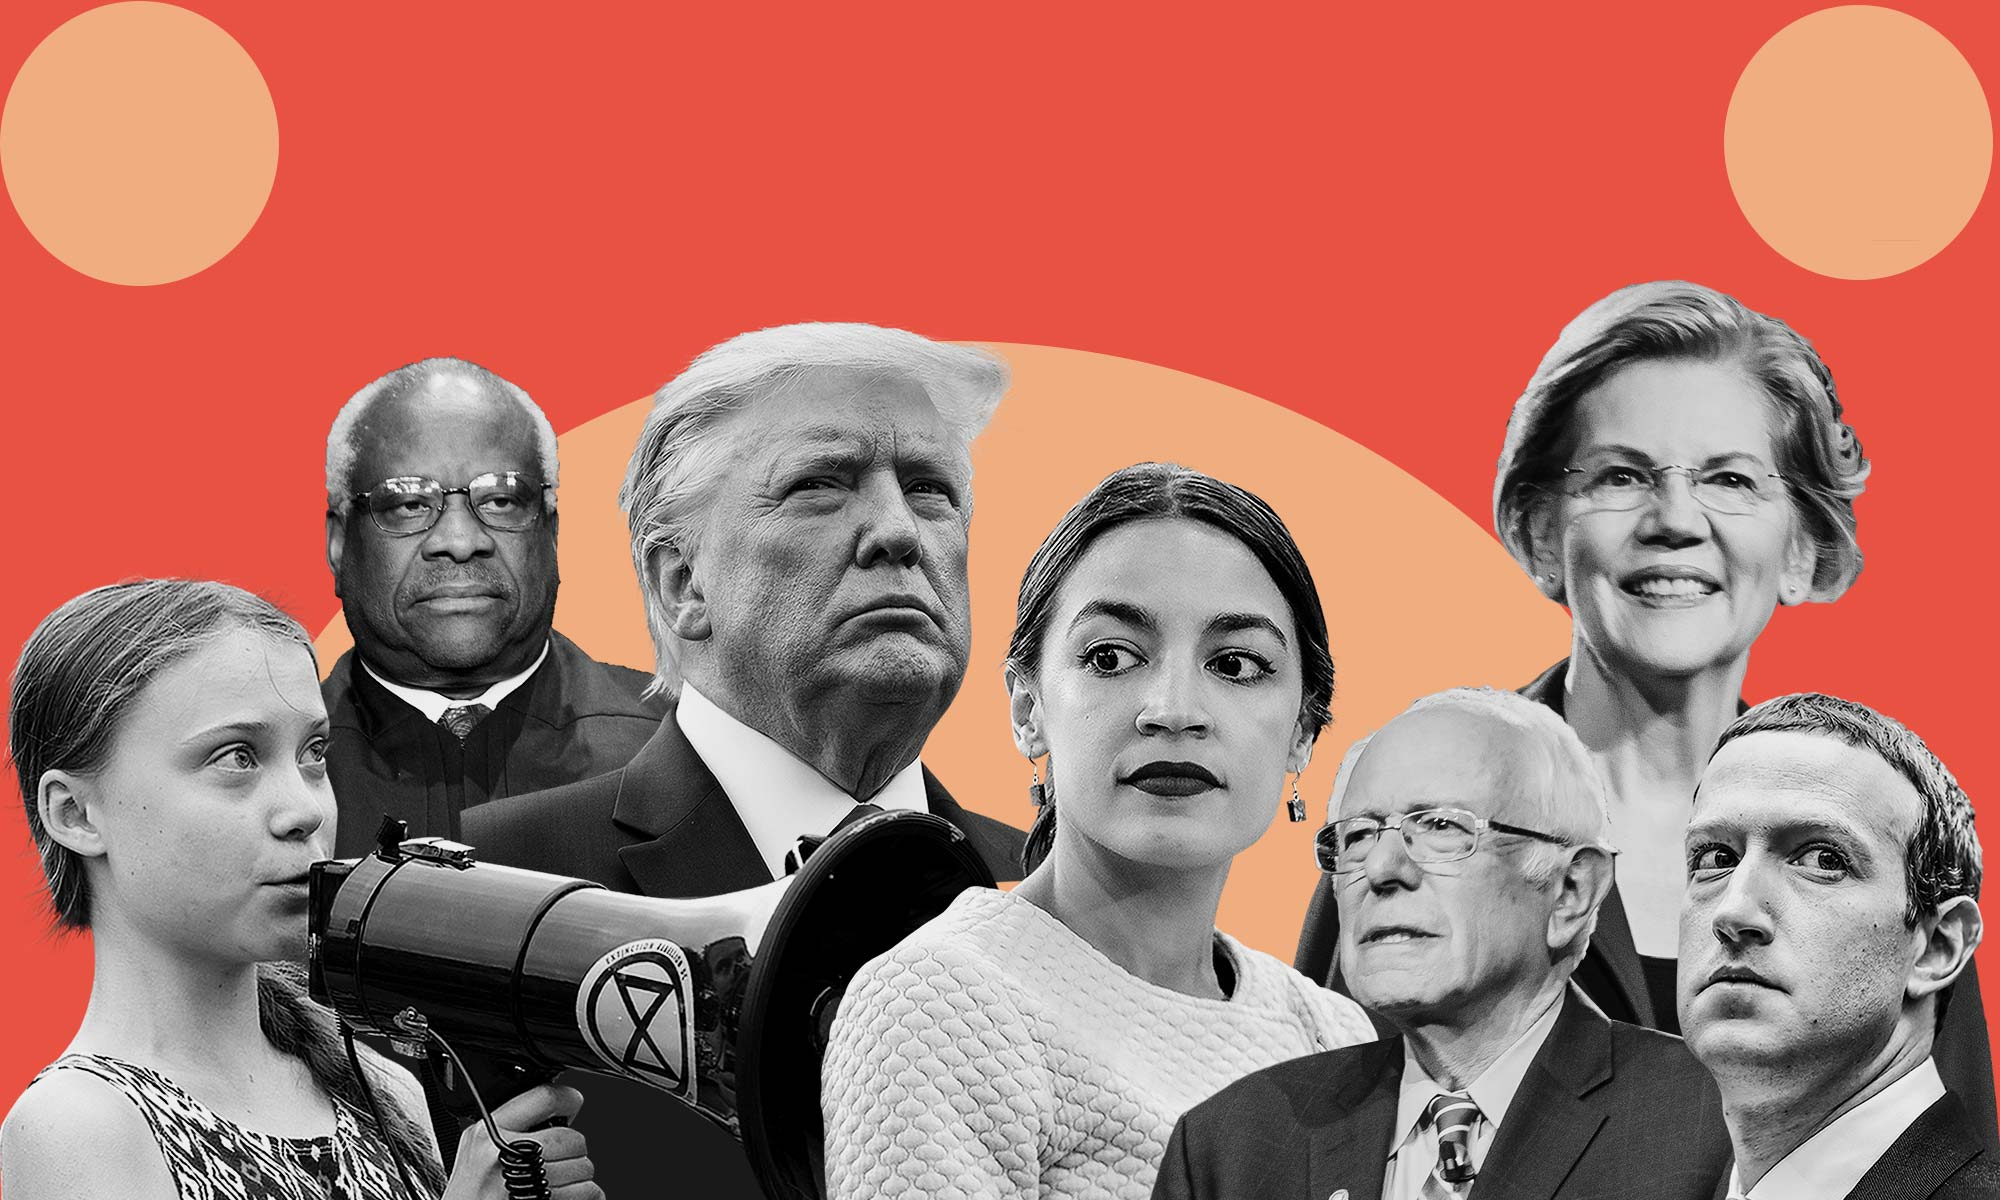
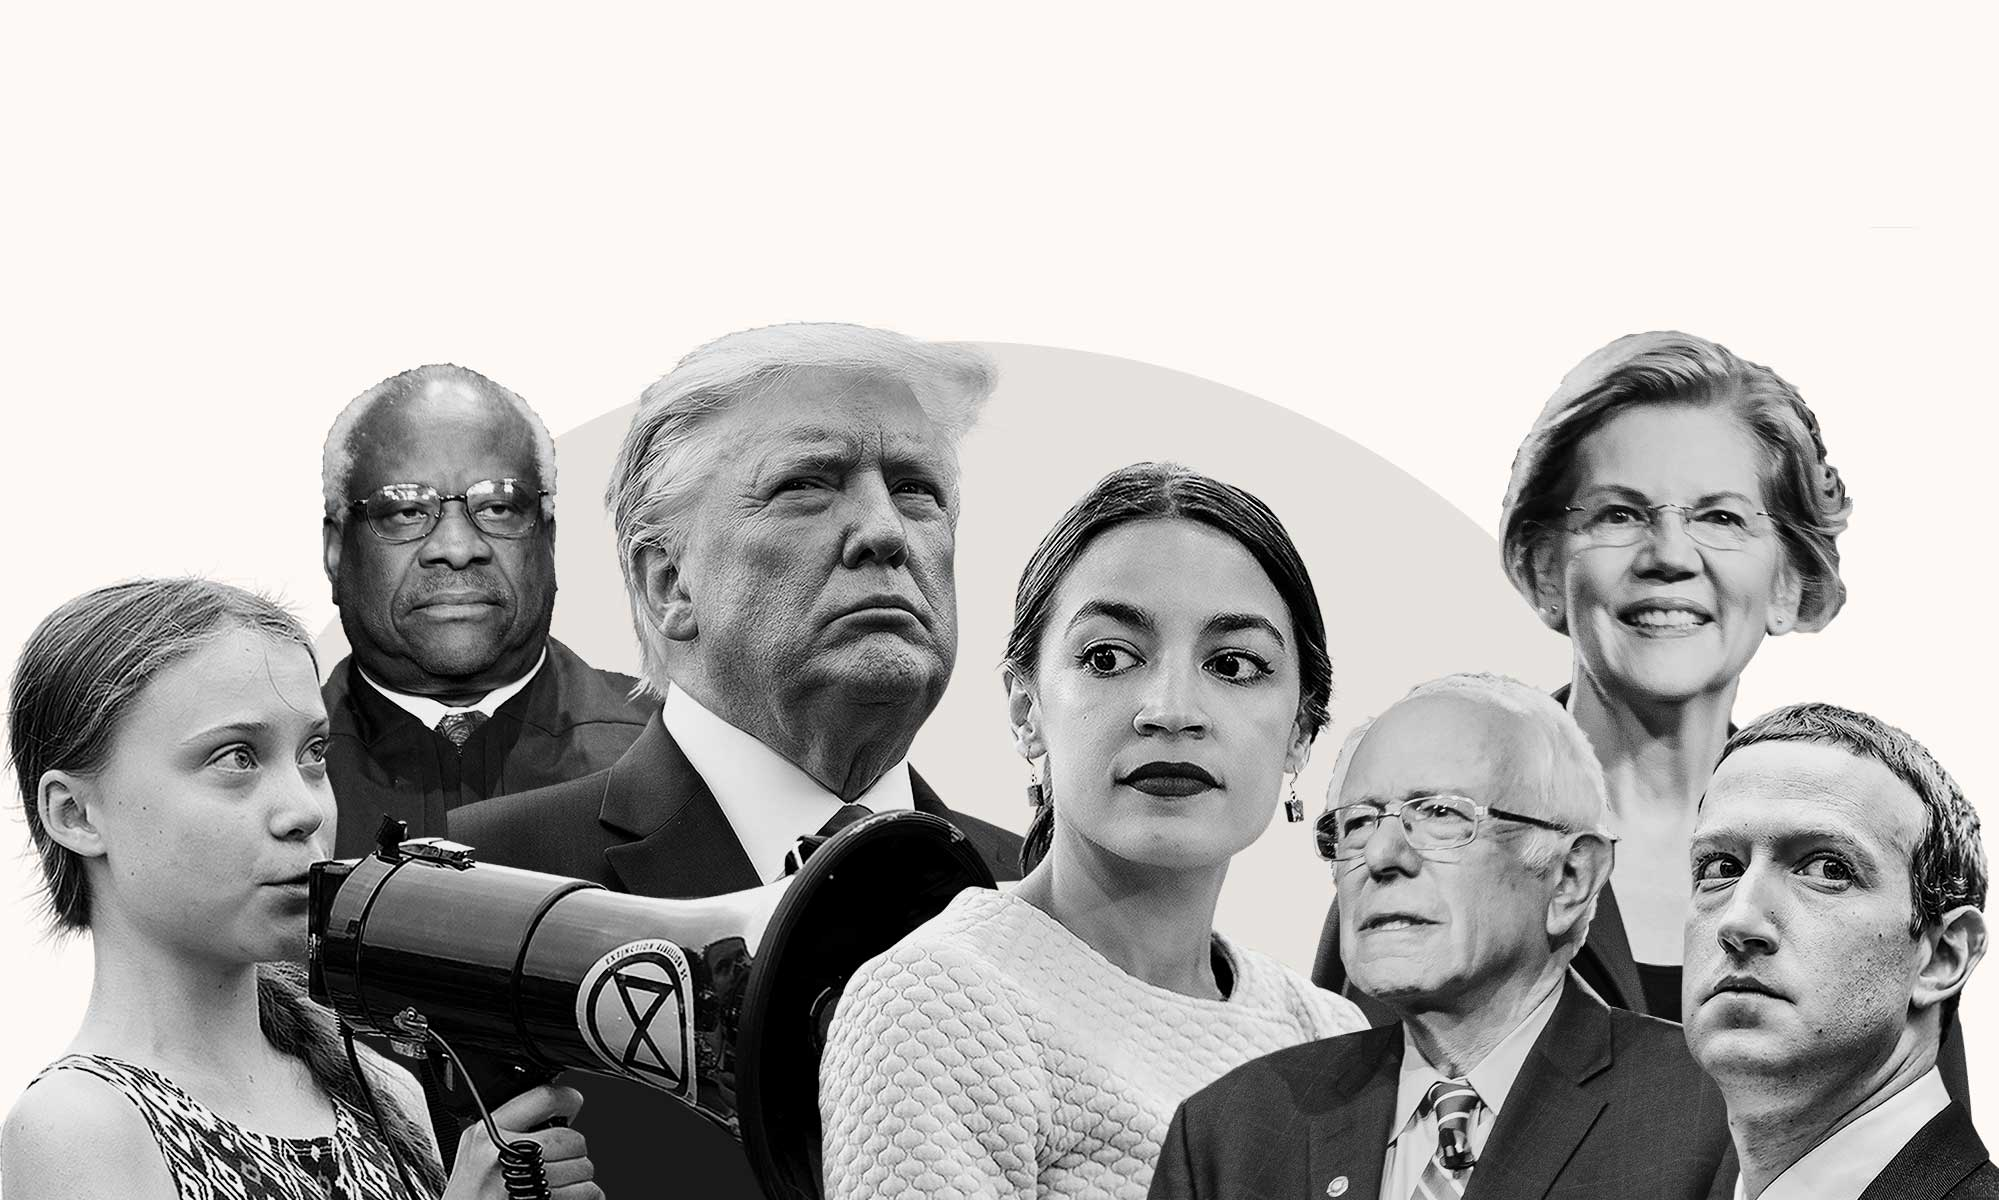
end of year 2019

diff --git a/embeds/us-end-of-year-2019-7-days/index.html b/embeds/us-end-of-year-2019-7-days/index.html
@@ -1,0 +1,29 @@
+<div class='commercial-thrasher'>
+    <div class='us-end-of-year-2019__content'>
+        <h1 class='us-end-of-year-2019__title'>
+            <span class='us-end-of-year-2019__title-kicker'>Offset fake news this holiday season...</span>
+            <span class='us-end-of-year-2019__title-main'>And help the truth triumph in 2020</span>
+            <div class='new-year__countdown'>
+                <span class='new-year__countdown__number'>60</span>
+                <span class='new-year__countdown__label'>days left to contribute</span>
+            </div>
+        </h1>
+        <p class='us-end-of-year-2019__standfirst'>Amid a tsunami of disinformation and “alternative facts”, the need for truth has never been greater. Support the Guardian’s independent, fact-based journalism this holiday season. As we look to the challenges of the coming year, we’re hoping to raise $1.5m from our US readers by January.  Help us reach our goal!</p>
+
+        <div class='us-end-of-year-2019__money-zone'>
+            <div class='us-end-of-year-2019__money-zone'>
+                <div class='us-end-of-year-2019__count'>$0</div>
+                <div class='us-end-of-year-2019__total'>contributed to our $1,500,000 goal</div>
+                <div class='us-end-of-year-2019__progress-bar'>
+                    <div class='us-end-of-year-2019__progress-complete'></div>
+                </div>
+                <a class='us-end-of-year-2019__button' href='https://support.theguardian.com/contribute?acquisitionData=%7B%22source%22%3A%22GUARDIAN_WEB%22%2C%22componentType%22%3A%22ACQUISITIONS_THRASHER%22%2C%22componentId%22%3A%22USeoy2019_thrasher_givingtues%22%2C%22campaignCode%22%3A%22USeoy2019%22%7D&INTCMP=USeoy2019'>Support the Guardian </a>
+            </div>
+        </div>
+
+        <img class='us-end-of-year-2019__image' src='@@assetPath@@/image.gif' />
+
+        <svg class='us-end-of-year-2019__roundel' enable-background="new 0 0 50 50" viewBox="0 0 50 50" xmlns="http://www.w3.org/2000/svg"><path d="m50 25c0 13.8-11.2 25-25 25s-25-11.2-25-25 11.2-25 25-25 25 11.2 25 25" fill="#121212"/><g fill="#fff"><path d="m29.2 7 8.2 10.8h.8v-7.3c-1.6-1.6-5.4-3.8-9-4.3z"/><path d="m26.5 25.9v.8l2.6 1v14.1 1.6.9c3.8-.7 7.5-2.9 9-4.3v-12l2.6-1.2v-.9z"/><path d="m17.7 25.1c-.1 10.6 3.1 18.4 8.8 18.4h.1v.8c-8.5.7-20.2-5.8-20-19.2-.2-13.4 11.5-19.9 19.9-19.3v.8s0 0-.1 0c-5.6 0-8.8 7.9-8.7 18.5z"/></g></svg>
+    </div>
+</div>
+<script type="text/javascript" src="@@assetPath@@/main.js"></script>

diff --git a/embeds/us-end-of-year-giving-tuesday/index.html b/embeds/us-end-of-year-giving-tuesday/index.html
@@ -1,0 +1,25 @@
+<div class='commercial-thrasher'>
+    <div class='us-end-of-year-2019__content'>
+        <h1 class='us-end-of-year-2019__title'>
+            <span class='us-end-of-year-2019__title-kicker'>Offset fake news this holiday season...</span>
+            <span class='us-end-of-year-2019__title-main'>And help the truth triumph in 2020</span>
+        </h1>
+        <p class='us-end-of-year-2019__standfirst'>Amid a tsunami of disinformation and “alternative facts”, the need for truth has never been greater. Support the Guardian’s independent, fact-based journalism this holiday season. As we look to the challenges of the coming year, we’re hoping to raise $1.5m from our US readers by January.  Help us reach our goal!</p>
+
+        <div class='us-end-of-year-2019__money-zone'>
+            <div class='us-end-of-year-2019__money-zone'>
+                <div class='us-end-of-year-2019__count'>$0</div>
+                <div class='us-end-of-year-2019__total'>contributed to our $1,500,000 goal</div>
+                <div class='us-end-of-year-2019__progress-bar'>
+                    <div class='us-end-of-year-2019__progress-complete'></div>
+                </div>
+                <a class='us-end-of-year-2019__button' href='https://support.theguardian.com/contribute?acquisitionData=%7B%22source%22%3A%22GUARDIAN_WEB%22%2C%22componentType%22%3A%22ACQUISITIONS_THRASHER%22%2C%22componentId%22%3A%22USeoy2019_thrasher_givingtues%22%2C%22campaignCode%22%3A%22USeoy2019%22%7D&INTCMP=USeoy2019'>Support the Guardian </a>
+            </div>
+        </div>
+
+        <img class='us-end-of-year-2019__image' src='@@assetPath@@/image.gif' />
+
+        <svg class='us-end-of-year-2019__roundel' enable-background="new 0 0 50 50" viewBox="0 0 50 50" xmlns="http://www.w3.org/2000/svg"><path d="m50 25c0 13.8-11.2 25-25 25s-25-11.2-25-25 11.2-25 25-25 25 11.2 25 25" fill="#121212"/><g fill="#fff"><path d="m29.2 7 8.2 10.8h.8v-7.3c-1.6-1.6-5.4-3.8-9-4.3z"/><path d="m26.5 25.9v.8l2.6 1v14.1 1.6.9c3.8-.7 7.5-2.9 9-4.3v-12l2.6-1.2v-.9z"/><path d="m17.7 25.1c-.1 10.6 3.1 18.4 8.8 18.4h.1v.8c-8.5.7-20.2-5.8-20-19.2-.2-13.4 11.5-19.9 19.9-19.3v.8s0 0-.1 0c-5.6 0-8.8 7.9-8.7 18.5z"/></g></svg>
+    </div>
+</div>
+<script type="text/javascript" src="@@assetPath@@/main.js"></script>

diff --git a/embeds/us-end-of-year-2019-7-days/_source/main.js b/embeds/us-end-of-year-2019-7-days/_source/main.js
@@ -1,0 +1,80 @@
+var newYearCount = 60
+target,
+interval;
+var count = 0;
+var goal;
+var total;
+
+
+function animateCountdown() {
+    target = getCountdownTarget();
+
+    if (interval === undefined) {
+        interval = setInterval(increaseNewYearCounter, 1);
+    }
+};
+
+function getCountdownTarget() {
+    var oneDay = 24*60*60*1000;
+    var currentDate = new Date();
+    var targetDate = new Date('Jan 1, 2020');
+
+    return Math.floor(Math.abs((targetDate.getTime() - currentDate.getTime())/(oneDay))) + 1;
+};
+
+function increaseNewYearCounter() {
+    newYearCount -= 1;
+
+    document.getElementsByClassName('new-year__countdown__number')[0].innerHTML = newYearCount;
+
+    if (newYearCount <= target) {
+        document.getElementsByClassName('new-year__countdown__number')[0].innerHTML = target;
+    }
+};
+
+function percentageTotalAsNegative() {
+    var percentage = total / goal * 100 - 100;
+    if (percentage > 0) {
+        percentage = 0;
+    }
+    return percentage;
+};
+
+function animateBar() {
+    var progressBarElement = document.querySelector('.us-end-of-year-2019__progress-complete');
+
+    if (progressBarElement && progressBarElement instanceof HTMLElement) {
+        progressBarElement.style.transform = 'translateX(' + percentageTotalAsNegative() + '%)';
+    }
+};
+
+function increaseCounter() {
+    count += Math.floor(total / 100);
+    var counterElement = document.querySelector('.us-end-of-year-2019__count');
+
+    if (counterElement && counterElement instanceof HTMLElement) {
+        counterElement.innerHTML = '$' + count.toLocaleString();
+        if (count >= total) {
+            counterElement.innerHTML = '$' + total.toLocaleString();
+        } else {
+            window.requestAnimationFrame(increaseCounter);
+        }
+    }
+};
+
+function fetchDataAndAnimate() {
+    fetch('https://support.theguardian.com/ticker.json').then(function (resp) {
+        return resp.json();
+    }).then(function (data) {
+        total = parseInt(data.total, 10);
+        goal = parseInt(data.goal, 10);
+
+        window.setTimeout(function () {
+            window.requestAnimationFrame(increaseCounter);
+            animateBar();
+        }, 500);
+    });
+};
+
+fetchDataAndAnimate();
+animateCountdown();

diff --git a/embeds/us-end-of-year-2019-7-days/style.scss b/embeds/us-end-of-year-2019-7-days/style.scss
@@ -18,7 +18,7 @@ $c-blue: #1E5490;
 
 @import 'shared/_imports';
 
-@include base(us-end-of-year-2019, $c-red);
+@include base(us-end-of-year-giving-tuesday, $c-red);
 
 @font-face {
     font-family: 'Guardian Figures';
@@ -30,7 +30,7 @@ $c-blue: #1E5490;
     font-stretch: normal;
 }
 
-.us-end-of-year-2019__wrapper {
+.us-end-of-year-giving-tuesday__wrapper {
     @include mq(tablet) {
         padding: 0 20px;
         border-left: 1px solid $c-white;
@@ -69,7 +69,7 @@ $c-blue: #1E5490;
 }
 
 .us-end-of-year-2019__title-kicker {
-    color: $c-black;
+    color: $c-blue;
     display: block;
     margin-bottom: 4px;
 
@@ -79,7 +79,7 @@ $c-blue: #1E5490;
 }
 
 .us-end-of-year-2019__title-main {
-    color: $c-blue;
+    color: $c-black;
 }
 
 .us-end-of-year-2019__standfirst {
@@ -130,7 +130,7 @@ $c-blue: #1E5490;
     width: 100%;
     border-radius: 4px;
     overflow: hidden;
-    background-color: darken(#dcdcdc, 10%);
+    background-color: darken(#D7D7D7, 10%);
 }
 
 .us-end-of-year-2019__progress-complete {
@@ -139,7 +139,7 @@ $c-blue: #1E5490;
     left: 0;
     bottom: 0;
     width: 100%;
-    background-color: #506991;
+    background-color: #496F99;
     transform: translateX(-100%);
     transition: transform 0.8s linear;
 }
@@ -176,18 +176,18 @@ $c-blue: #1E5490;
     margin-top: -40px;
 
     @include mq(tablet) {
-        width: 380px;
+        width: 320px;
         margin-top: -190px;
-        margin-right: -80px;
+        margin-right: -20px;
         max-width: none;
     }
 
     @include mq(desktop) {
         position: absolute;
-        width: 350px;
+        width: 340px;
         right: 40px;
         bottom: 0;
-        margin-right: -20px;
+        margin-right: -40px;
     }
 
     @include mq(leftCol) {
@@ -195,8 +195,8 @@ $c-blue: #1E5490;
     }
 
     @include mq(wide) {
-        width: 540px;
-        right: 80px;
+        width: 440px;
+        right: 100px;
     }
 }
 

diff --git a/embeds/us-end-of-year-giving-tuesday/style.scss b/embeds/us-end-of-year-giving-tuesday/style.scss
@@ -18,7 +18,7 @@ $c-blue: #1E5490;
 
 @import 'shared/_imports';
 
-@include base(us-end-of-year-2019, $c-red);
+@include base(us-end-of-year-giving-tuesday, $c-red);
 
 @font-face {
     font-family: 'Guardian Figures';
@@ -30,7 +30,7 @@ $c-blue: #1E5490;
     font-stretch: normal;
 }
 
-.us-end-of-year-2019__wrapper {
+.us-end-of-year-giving-tuesday__wrapper {
     @include mq(tablet) {
         padding: 0 20px;
         border-left: 1px solid $c-white;
@@ -69,7 +69,7 @@ $c-blue: #1E5490;
 }
 
 .us-end-of-year-2019__title-kicker {
-    color: $c-black;
+    color: $c-blue;
     display: block;
     margin-bottom: 4px;
 
@@ -79,7 +79,7 @@ $c-blue: #1E5490;
 }
 
 .us-end-of-year-2019__title-main {
-    color: $c-blue;
+    color: $c-black;
 }
 
 .us-end-of-year-2019__standfirst {
@@ -130,7 +130,7 @@ $c-blue: #1E5490;
     width: 100%;
     border-radius: 4px;
     overflow: hidden;
-    background-color: darken(#dcdcdc, 10%);
+    background-color: darken(#D7D7D7, 10%);
 }
 
 .us-end-of-year-2019__progress-complete {
@@ -139,7 +139,7 @@ $c-blue: #1E5490;
     left: 0;
     bottom: 0;
     width: 100%;
-    background-color: #506991;
+    background-color: #496F99;
     transform: translateX(-100%);
     transition: transform 0.8s linear;
 }
@@ -176,18 +176,18 @@ $c-blue: #1E5490;
     margin-top: -40px;
 
     @include mq(tablet) {
-        width: 380px;
+        width: 320px;
         margin-top: -190px;
-        margin-right: -80px;
+        margin-right: -20px;
         max-width: none;
     }
 
     @include mq(desktop) {
         position: absolute;
-        width: 350px;
+        width: 340px;
         right: 40px;
         bottom: 0;
-        margin-right: -20px;
+        margin-right: -40px;
     }
 
     @include mq(leftCol) {
@@ -195,8 +195,8 @@ $c-blue: #1E5490;
     }
 
     @include mq(wide) {
-        width: 540px;
-        right: 80px;
+        width: 440px;
+        right: 100px;
     }
 }
 

diff --git a/embeds/us-end-of-year-giving-tuesday/_source/main.js b/embeds/us-end-of-year-giving-tuesday/_source/main.js
@@ -1,0 +1,50 @@
+var count = 0;
+var goal;
+var total;
+
+function percentageTotalAsNegative() {
+    var percentage = total / goal * 100 - 100;
+    if (percentage > 0) {
+        percentage = 0;
+    }
+    return percentage;
+};
+
+function animateBar() {
+    var progressBarElement = document.querySelector('.us-end-of-year-2019__progress-complete');
+
+    if (progressBarElement && progressBarElement instanceof HTMLElement) {
+        progressBarElement.style.transform = 'translateX(' + percentageTotalAsNegative() + '%)';
+    }
+};
+
+function increaseCounter() {
+    count += Math.floor(total / 100);
+    var counterElement = document.querySelector('.us-end-of-year-2019__count');
+
+    if (counterElement && counterElement instanceof HTMLElement) {
+        counterElement.innerHTML = '$' + count.toLocaleString();
+        if (count >= total) {
+            counterElement.innerHTML = '$' + total.toLocaleString();
+        } else {
+            window.requestAnimationFrame(increaseCounter);
+        }
+    }
+};
+
+function fetchDataAndAnimate() {
+    fetch('https://support.theguardian.com/ticker.json').then(function (resp) {
+        return resp.json();
+    }).then(function (data) {
+        console.log('yoyoyo');
+        total = parseInt(data.total, 10);
+        goal = parseInt(data.goal, 10);
+
+        window.setTimeout(function () {
+            window.requestAnimationFrame(increaseCounter);
+            animateBar();
+        }, 500);
+    });
+};
+
+fetchDataAndAnimate();

diff --git a/embeds/this-land-is-your-land/index.html b/embeds/this-land-is-your-land/index.html
@@ -13,7 +13,7 @@
 </div>
 <div class='this-land-is-your-land__image'><a class='this-land-is-your-land__image-link' href='https://www.theguardian.com/environment/series/this-land-is-your-land'></a></div>
 
-<img 
+<img
     style="height:0;width:0;visibility:hidden;position:absolute;z-index: 1;"
     height="0"
     width="0"
